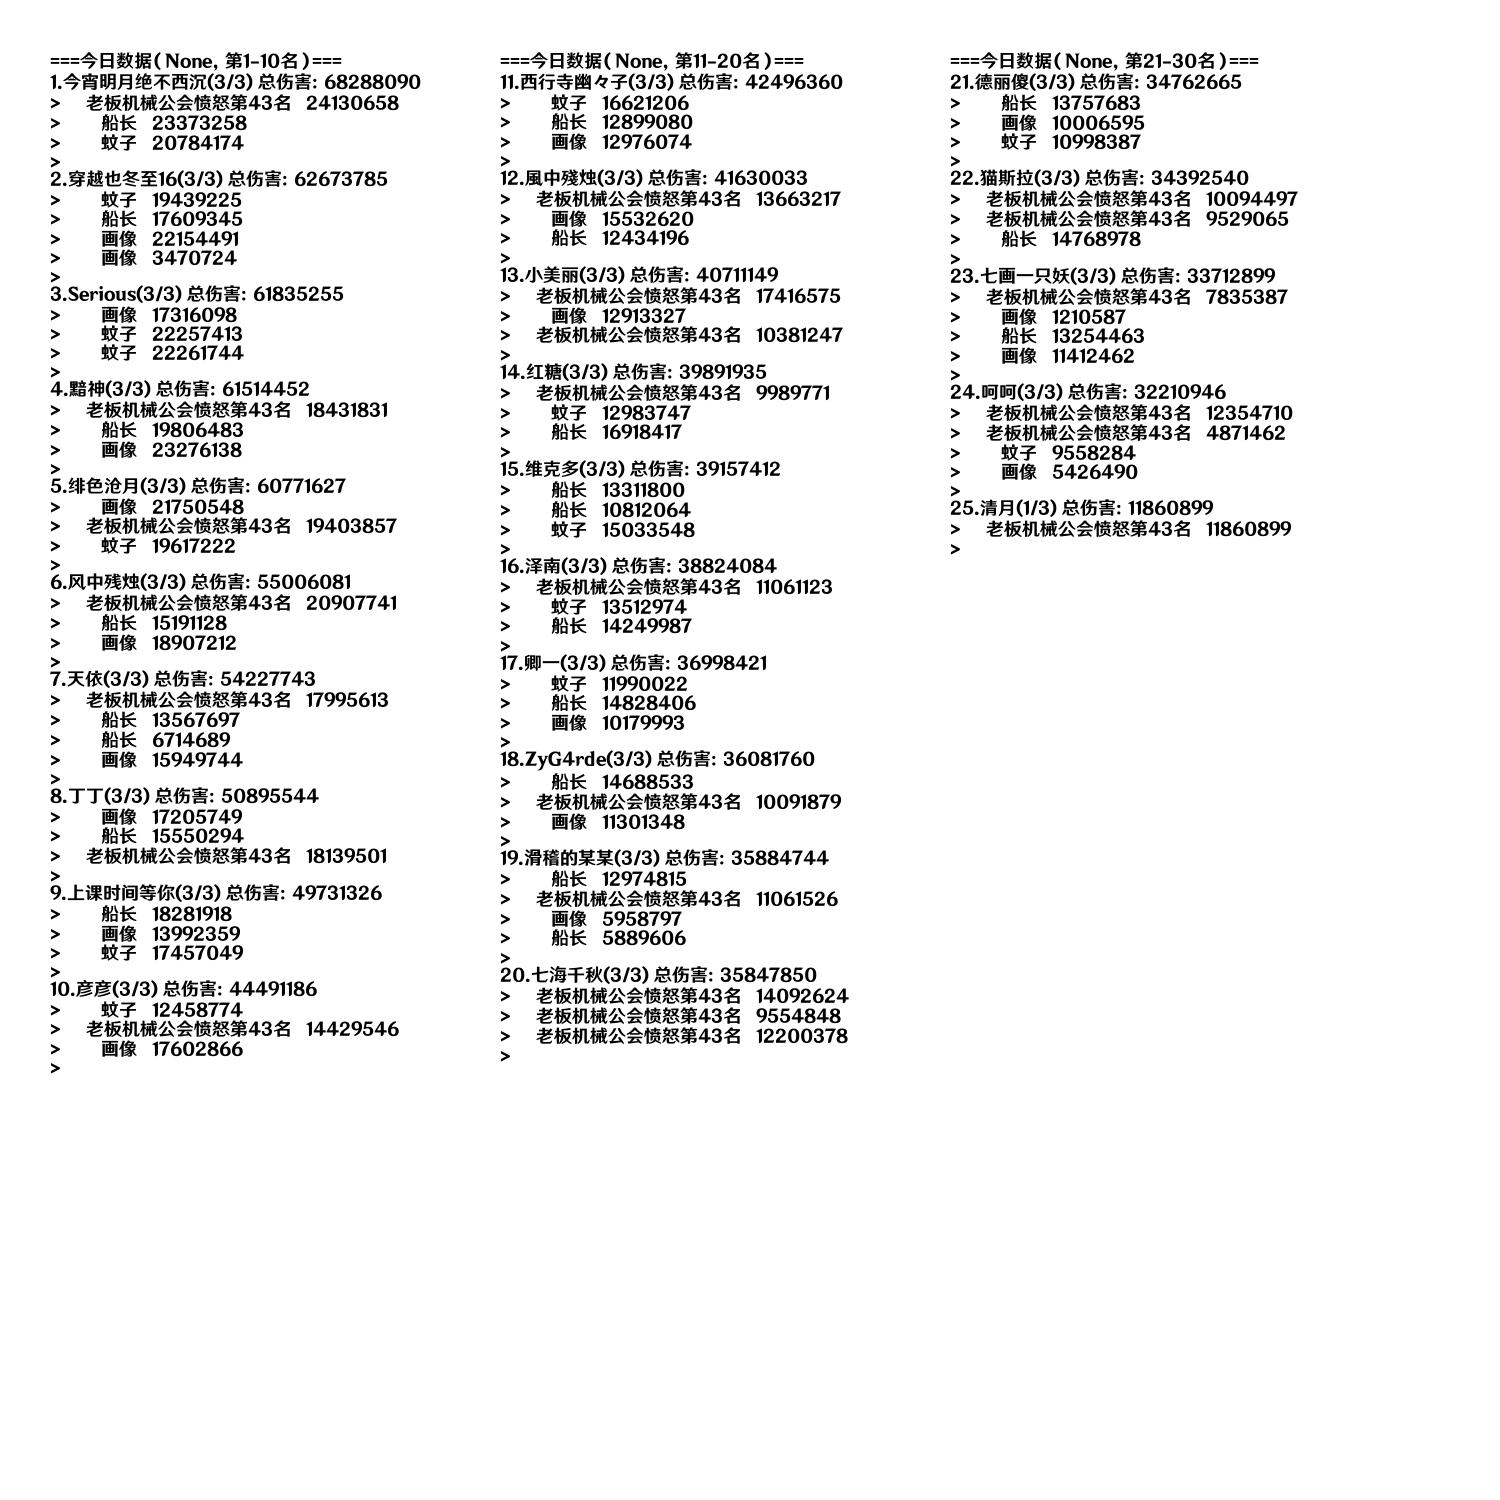
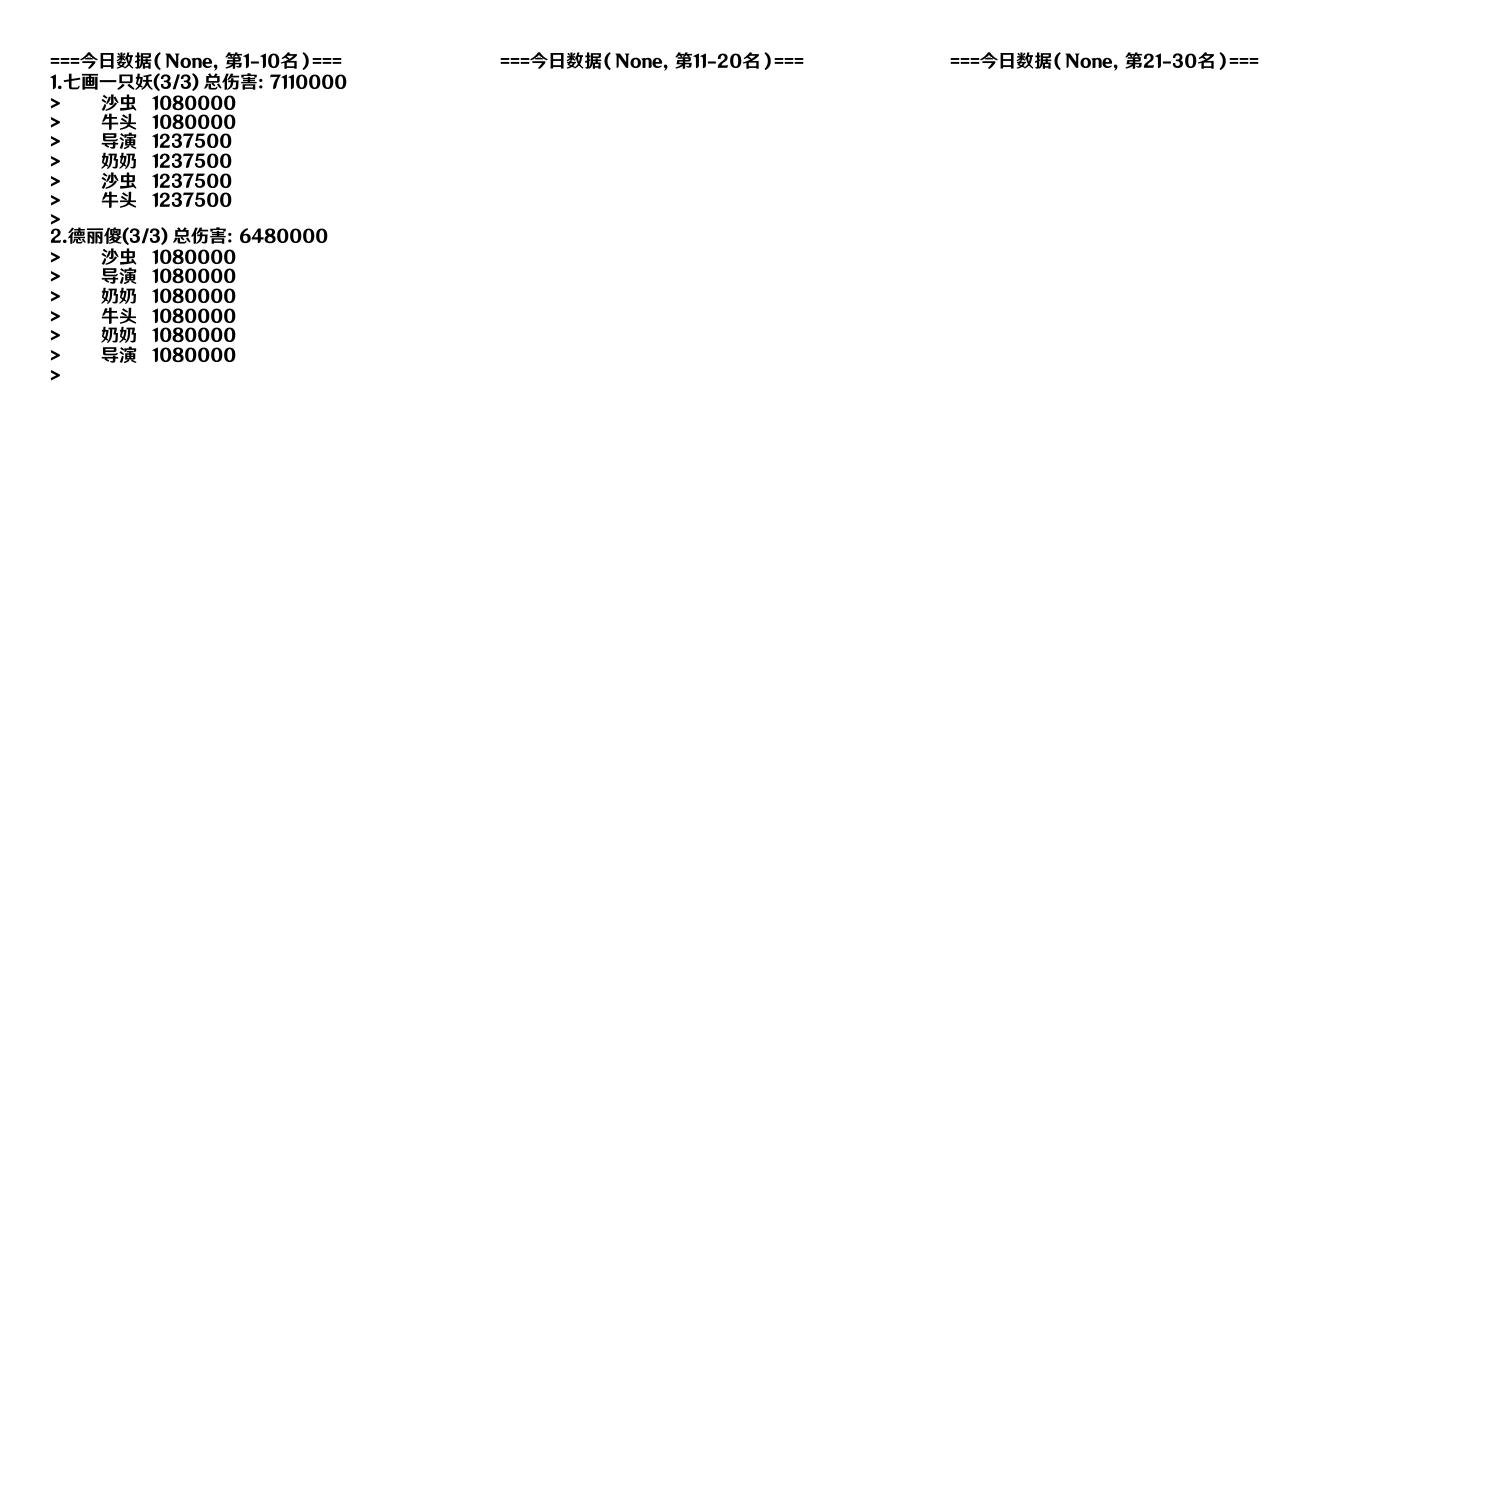
2023-06-02更新，测试通过

Changed region(s): [[0.0307, 0.0307, 0.276, 0.7053], [0.3373, 0.0307, 0.5827, 0.7053], [0.6133, 0.0307, 0.8587, 0.368]]

diff --git a/payload/setting.py b/payload/setting.py
@@ -25,18 +25,18 @@ DAO_DAILY = f"""https://ww2.ren/?webtype=mmqch&oty=newcode_tx&oty2=jpg_ghdamage3
 DAMAGE_TOTAL = f"""https://ww2.ren/?webtype=mmqch&oty=newcode_tx&oty2=jpg_ghzongdamage_xi&qi=195421679838539&rd=89181165"""
 
 # 会战日期（14天）
-FIGHT_LIST = ["2023-03-30",
-              "2023-03-31",
-              "2023-04-01",
-              "2023-04-02",
-              "2023-04-03",
-              "2023-04-04",
-              "2023-04-05",
-              "2023-04-06",
-              "2023-04-07",
-              "2023-04-08",
-              "2023-04-09",
-              "2023-04-10",
-              "2023-04-11",
-              "2023-04-12",
+FIGHT_LIST = ["2023-06-02",
+              "2023-06-03",
+              "2023-06-04",
+              "2023-06-05",
+              "2023-06-06",
+              "2023-06-07",
+              "2023-06-08",
+              "2023-06-09",
+              "2023-06-10",
+              "2023-06-11",
+              "2023-06-12",
+              "2023-06-13",
+              "2023-06-14",
+              "2023-06-15",
               ]

diff --git a/main.py b/main.py
@@ -2,7 +2,7 @@
 Author: 七画一只妖 1157529280@qq.com
 Date: 2023-03-27 09:01:10
 LastEditors: 七画一只妖 1157529280@qq.com
-LastEditTime: 2023-05-31 21:34:22
+LastEditTime: 2023-06-02 18:59:31
 FilePath: \060坎公骑冠剑会战工具\main.py
 Description: 这是默认设置,请设置`customMade`, 打开koroFileHeader查看配置 进行设置: https://github.com/OBKoro1/koro1FileHeader/wiki/%E9%85%8D%E7%BD%AE
 '''
@@ -15,7 +15,7 @@ import asyncio
 loop = asyncio.get_event_loop()
 
 # 日报
-# loop.run_until_complete(dao.get_data())
+loop.run_until_complete(dao.get_data())
 
 # 总伤害排行
 # loop.run_until_complete(dao.get_data_total())

diff --git a/payload/utils/data_utils.py b/payload/utils/data_utils.py
@@ -2,7 +2,7 @@
 Author: 七画一只妖 1157529280@qq.com
 Date: 2023-03-27 09:55:54
 LastEditors: 七画一只妖 1157529280@qq.com
-LastEditTime: 2023-04-21 17:12:49
+LastEditTime: 2023-06-02 19:00:43
 '''
 import json
 
@@ -44,6 +44,9 @@ def _data_format(name):
         "侵略军司令官":"司令",
         "boss_mech_guild_fury_43th":"熊猫",
         "boss_admiral_guild_43th_modified":"船长",
-        "boss_portrait_guild_43th":"画像"
+        "boss_portrait_guild_43th":"画像",
+        "boss_invader_director_guild":"导演",
+        "机械人艾瑞娜":"奶奶",
+        "愤怒的牛头人":"牛头"
     }
     return data[name]
